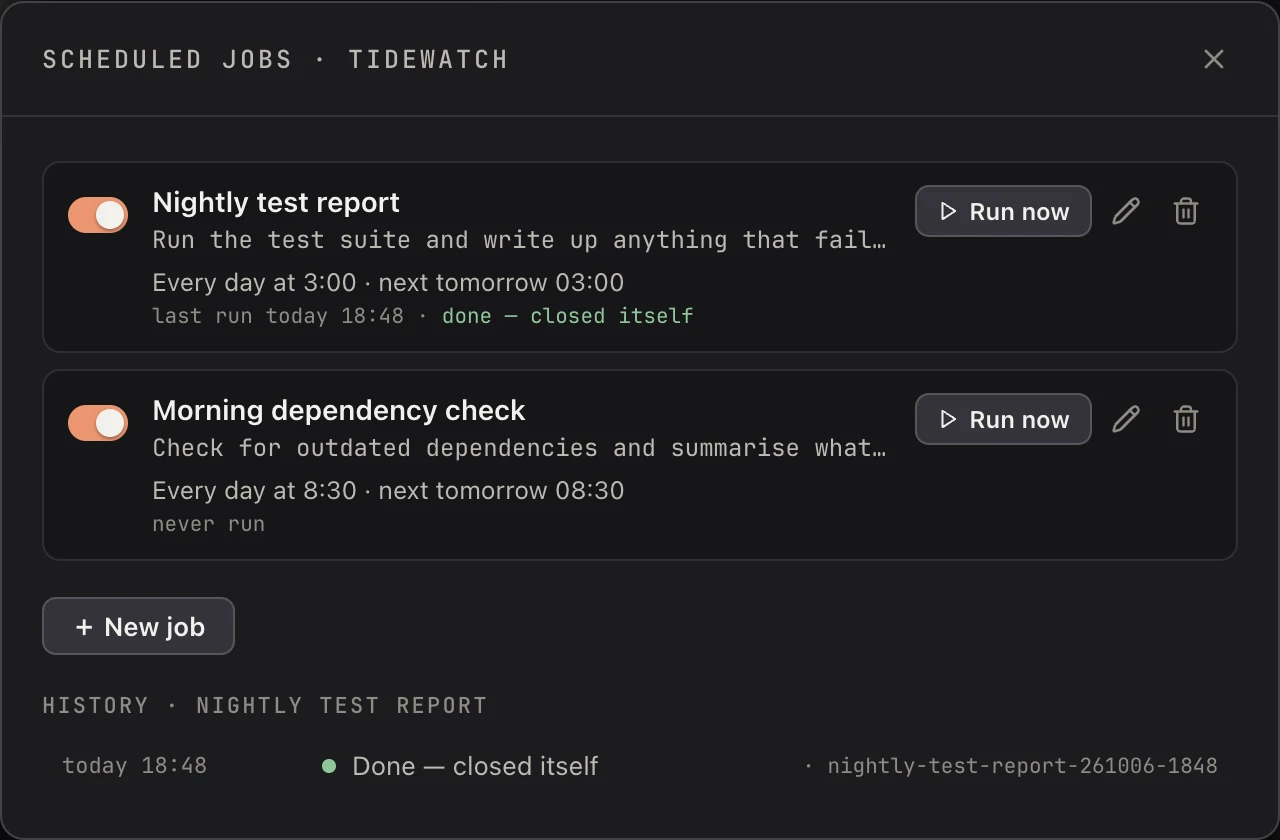
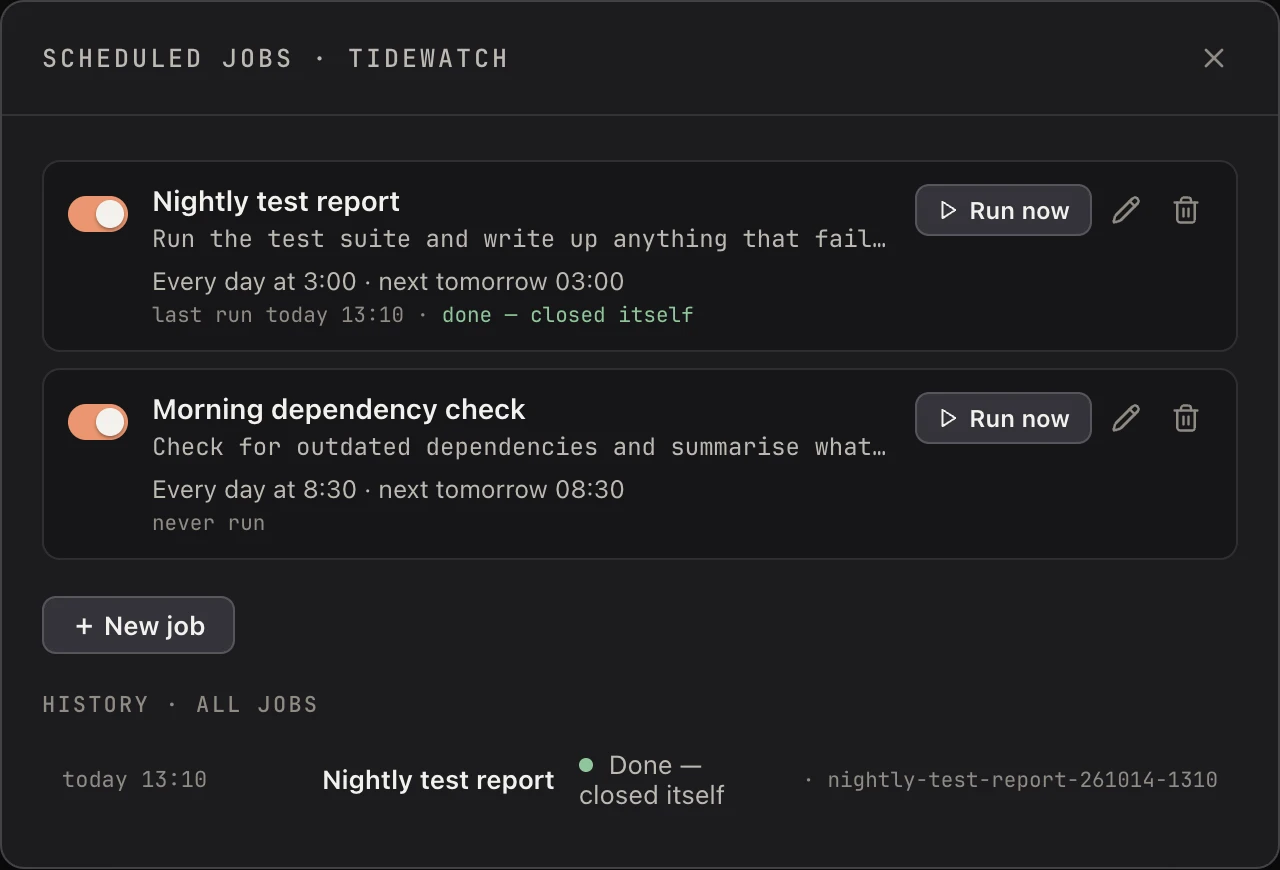
docs(site): what ⌘P finds and answers, worktrees for every ⌘P and Assist session, SSH remotes with a picked git account, Codex in the usage panel, History for all jobs

diff --git a/site/sessions/index.html b/site/sessions/index.html
@@ -232,18 +232,40 @@
           <li>
             <kbd>⌘P</kbd> (View ▸ Command Palette…) opens one box with one input. As you type, the
             sessions, folders and app actions (New session…, Settings…, and so on) that fit show up
-            under it. Type a few letters of a session's title, its worktree, its folder or its
-            machine, press <kbd>↓</kbd> to pick the match, then <kbd>⏎</kbd>, and you are there. It
-            does what a click on the row does, so a closed session is resumed.
+            under it. Every Settings page is there too, found by English or Chinese words: type
+            "shortcuts" or "快捷键" and the row <code>Settings ▸ Shortcuts</code> shows up. Type a
+            few letters of a session's title, its worktree, its folder or its machine, press
+            <kbd>↓</kbd> to pick the match, then <kbd>⏎</kbd>, and you are there. It does what a
+            click on the row does, so a closed session is resumed.
           </li>
           <li>
-            Or type what a new session should do, and press <kbd>⏎</kbd>.
-            <a href="../accounts/#assist">Assist</a> picks the folder, the worktree and a title, and
-            the session starts there with your words as its first message. If the folder's branch is
+            A moment after you stop typing, the sessions whose conversation holds your words show up
+            too, under "In conversations": up to three, with one line of text around the match, and
+            a row <code>All N conversations that mention it</code> when there are more. Click that
+            row, or press <kbd>⌥⏎</kbd>, for the full search (below).
+          </li>
+          <li>
+            Or type what a new session should do, and press <kbd>⏎</kbd> (the button at the right
+            reads <code>Ask AI</code>). <a href="../accounts/#assist">Assist</a> picks the folder,
+            the worktree and a title, and the session starts there with your words as its first
+            message. In a folder git tracks, the session always gets a worktree of its own, never
+            the folder itself; when Assist does not name one, it is called
+            <code class="nowrap">session-&lt;date&gt;-&lt;time&gt;</code>. If the folder's branch is
             behind, Koloft first asks whether to pull. <kbd>⇧⏎</kbd> starts it on the other tool,
-            when you have both. When Assist is not sure which folder, or is off, the folder picker
-            opens instead. Words about Koloft itself ("turn on dark mode", "set up Discord") go to
-            Assist as a task, and "ask &lt;folder&gt; …" goes to that folder's Assist.
+            when you have both.
+          </li>
+          <li>
+            Not everything you type starts a session. Words about Koloft itself ("turn on dark
+            mode", "set up Discord") go to Assist as a task; "open settings" or "check for updates"
+            just does it; "ask &lt;folder&gt; …" goes to that folder's Assist. Ask for a session by
+            what it was doing ("go to the session that was fixing login"), and <kbd>⌘P</kbd> jumps
+            to it, starting nothing. A question, a translation, or work that fits more than one
+            folder ("fix the tests") goes to the global Assist, which answers in its own tab.
+          </li>
+          <li>
+            With Assist off, the button reads <code>Start a session</code> and <kbd>⏎</kbd> opens
+            the folder picker instead. A folder git tracks still gets a fresh
+            <code class="nowrap">session-&lt;date&gt;-&lt;time&gt;</code> worktree.
           </li>
           <li>
             If Assist says the words call for a brand-new project, Koloft makes the folder, adds it
@@ -292,6 +314,13 @@
           copy of the repo on its own branch.
         </p>
         <ul class="dash">
+          <li>
+            A session you ask for in <kbd>⌘P</kbd>, and one Assist starts, gets its own worktree too
+            when the folder is git, never the folder itself (see
+            <a href="#find">find any session</a>). Claude Code and Codex both do this, and
+            <kbd>⌘P</kbd> does it on a <a href="../remote/">remote folder</a> too. <kbd>⌘N</kbd>
+            still starts in the folder.
+          </li>
           <li>
             Claude Code removes its worktree when it exits, if nothing in it changed. If something
             did, Claude asks you: keep it or remove it.

diff --git a/site/accounts/index.html b/site/accounts/index.html
@@ -162,7 +162,11 @@
         <h3>Good to know</h3>
         <ul class="dash">
           <li>tokens and keys are kept in the macOS Keychain</li>
-          <li>the top bar shows how much room your Claude accounts have left</li>
+          <li>
+            the little bars at the bottom of the sidebar show how much room your accounts have left,
+            Claude and Codex. Hover them for the <code>Account usage</code> panel: a Claude part and
+            a Codex part, each with its accounts and, from two accounts up, a Pool row
+          </li>
           <li>
             with no account that can be used, the New session button is greyed out, and a line under
             it says why (the same for Codex); a scheduled job does not start either. The line is one
@@ -192,8 +196,16 @@
           Sign in to Codex runs <code>codex login</code> in a terminal tab. Each sign-in becomes its
           own Codex home, a folder that holds that one login. The sign-in tab says
           <code>Codex sign in: &lt;name&gt;</code> above the terminal, with a Cancel button. New
-          Codex sessions start on the least-used one. Each account's use, for each limit Codex
-          reports (such as 5 hours and a week), shows in Settings.
+          Codex sessions start on the least-used one, and never on one Codex says has hit its limit.
+          Each account's use, for each limit Codex reports (such as 5 hours and a week), shows in
+          Settings and in the usage panel at the bottom of the sidebar, with its credits and the
+          limit resets it has saved, like
+          <code>62,500 credits · 3 resets saved, first expires 10-21</code>.
+        </p>
+        <p>
+          An account that hit its limit shows <code>WALLED</code> in the panel. When it has a saved
+          reset, a <code>Use a reset</code> button is there too: say yes, and Koloft spends one
+          reset and reads the account's limits again.
         </p>
 
         <h2 id="assist">Assist</h2>
@@ -323,6 +335,23 @@
             machine's own git setup
           </li>
         </ul>
+        <h3>A folder whose remote is an SSH address</h3>
+        <p>
+          A pick works when the folder's remote is an SSH address too (<code class="nowrap"
+            >git@github.com:…</code
+          >, <code class="nowrap">ssh://…</code>, or an ssh alias of your own). Inside a Koloft
+          session, git then goes over https with the picked account's token; your own git setup,
+          <code>~/.ssh</code> and the Keychain are left alone. An account added as Other server does
+          not do this.
+        </p>
+        <p>
+          Some GitLab and Gitea servers allow SSH only. Then the git panel says
+          <code>This server allows SSH only — bob has no SSH key on this Mac yet.</code> with a
+          <code>Make a key for bob</code> button. Koloft makes a key for that account, shows it with
+          <code>Copy key</code> and <code>Open SSH keys page</code>, and <code>Check again</code>
+          tells you whether the server knows it yet. Pushes and fetches in that folder then use that
+          key.
+        </p>
 
         <h2>Your own accounts</h2>
         <p>

diff --git a/site/scheduled/index.html b/site/scheduled/index.html
@@ -210,21 +210,21 @@
           A job set to Close it says "closes when done" in the list. When its run closes, a small
           message pops up: "⏰ <i>name</i> finished and closed".
         </p>
-        <figure class="shot" style="--ar: 1280 / 700; --pos: 50% 100%; --ar-phone: 774 / 645">
+        <figure class="shot" style="--ar: 1280 / 730; --pos: 50% 100%; --ar-phone: 774 / 670">
           <div class="frame">
             <picture>
               <source
                 media="(max-width: 760px)"
                 srcset="../img/u-cron-close-phone2.webp"
                 width="774"
-                height="645"
+                height="670"
               />
               <img
                 src="../img/u-cron-close.webp"
                 width="1280"
-                height="840"
+                height="870"
                 loading="lazy"
-                alt="The Scheduled jobs window after a run: the nightly test report job reads last run today 18:48, done — closed itself, and its history below says Done — closed itself"
+                alt="The Scheduled jobs window after a run: the nightly test report job reads last run today 13:10, done — closed itself, and History · all jobs below has one line, Nightly test report, Done — closed itself"
               />
             </picture>
             <span class="tape" aria-hidden="true"></span>
@@ -238,7 +238,13 @@
           <li>closing it would lose a change that is not committed, or a commit</li>
           <li>a file in its Workbench is not saved</li>
         </ul>
-        <p>Each job keeps a short history of its runs. A line there reads one of:</p>
+        <p>
+          History, at the bottom of the window, lists every job's runs, newest first, each line
+          starting with the job's name (<code>History · all jobs</code>). Click a job's name on its
+          card: the card is highlighted and History shows that job alone (<code
+            >History · &lt;job&gt;</code
+          >). Click it again to see all jobs. A line there reads one of:
+        </p>
         <div class="typed-table">
           <table>
             <thead>

diff --git a/site/agents/index.html b/site/agents/index.html
@@ -115,11 +115,14 @@
             <code>koloft session new</code> — start a session of the same kind (Claude starts
             Claude, Codex starts Codex), in its own git worktree with
             <code class="nowrap">-w</code>. Only Assist (see below) can pick the other kind, with
-            <code class="nowrap">--backend</code>. Its row hangs under the session that started it
-            (see <a href="../sessions/#session-tree">sessions an agent starts</a>). A Claude session
-            it starts gets a short title that <a href="../accounts/#assist">Assist</a> makes from
-            its task (with Assist off, the first line of the task), or the name the agent gave it
-            with <code class="nowrap">--name</code>; the same title shows in the sidebar, in
+            <code class="nowrap">--backend</code>; and when Assist leaves out
+            <code class="nowrap">-w</code> in a folder git tracks, Koloft still makes a worktree,
+            named <code class="nowrap">session-&lt;date&gt;-&lt;time&gt;</code>. Its row hangs under
+            the session that started it (see
+            <a href="../sessions/#session-tree">sessions an agent starts</a>). A Claude session it
+            starts gets a short title that <a href="../accounts/#assist">Assist</a> makes from its
+            task (with Assist off, the first line of the task), or the name the agent gave it with
+            <code class="nowrap">--name</code>; the same title shows in the sidebar, in
             <code class="nowrap">session list</code> and in Discord. Codex names it itself.
           </li>
           <li>

diff --git a/site/index.html b/site/index.html
@@ -220,7 +220,8 @@
           <li><a href="sessions/#keep-running">sessions that keep running</a></li>
           <li>
             <a href="sessions/#find"
-              >type what a session should do, jump to any session, search every chat</a
+              >type what a session should do, ask Koloft anything, jump to any session or Settings
+              page, search every chat</a
             >
             (<kbd>⌘P</kbd>)
           </li>
